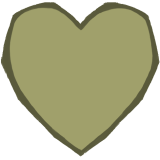
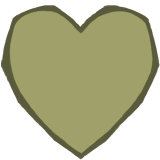
about section

Changed region(s): [[0.0, 0.0, 1.0, 1.0]]

diff --git a/src/Interface/AboutModal.jsx b/src/Interface/AboutModal.jsx
@@ -1,0 +1,111 @@
+import React from 'react';
+import styled from 'styled-components';
+import XIcon from '../svgs/X.jsx';
+import Collin from '../../public/Interface/collin.jpg';
+import Hypatia from '../../public/Interface/hypatia.jpg';
+import GitHub from '../../public/Interface/github.png';
+import LinkedIn from '../../public/Interface/linkedin.png';
+import Tumblr from '../../public/Interface/tumblr.png';
+
+const AboutModalContainer = styled.div`
+    position: absolute;    
+    background-color: #00000080;
+    color: #ffffff;
+    border-radius: 20px;
+    width: 960px;
+    min-width: 0;
+    max-width: 960px;
+    height: 680px;    
+    z-index: 2000;
+`;
+
+
+const AboutModalWrapper = styled.div`
+    position: relative;
+    padding: 20px;
+    svg{
+        position: absolute;
+        right: 20px;
+    }
+    h2{
+        text-align: center;
+    }
+`;
+
+const About = styled.div`
+    margin-bottom: 16px;
+`;
+
+const Profile = styled.div`   
+    margin-bottom: 12px;
+    img{
+        width: 160px;
+        height: 160px;        
+    }
+`;
+
+const Description = styled.div`
+    display: flex;    
+    margin-top: 16px;
+    img{
+        margin-right: 16px;
+    }
+`;
+
+const Socials = styled.div`
+    display: flex;
+    img{
+        width: 32px;
+        height: 32px;
+        margin-top: 4px;
+        margin-right: 4px;
+    }
+
+`;
+
+const AboutModal = (props) => {
+    const { setShowAbout } = props;
+    return <AboutModalContainer>        
+        <AboutModalWrapper>
+            <XIcon onClick = {() => { setShowAbout(false) }}/>
+            <h2>Majora's Menu</h2>
+            <About> The Majora's Menu project is an ongoing artistic endeavor by software engineer Collin Cain to recreate menus
+                from his favorite childhood video games, but with a modern UI design and custom features. While developing
+                this project Collin was able to connect with Hypatia, an artist with a deep love for Nintendo games like himself,
+                and with her help the project was brought to life. There is no purpose for this application currently. It exists
+                purely as an artistic expression. Maybe as more features are developed it will gain a purpose, but for now, please enjoy!
+            </About>
+            <Profile>
+                <h4>Collin - Developer</h4>
+                <Description>
+                    <img src={Collin}></img>
+                    <p> Collin is a software engineer who's been working in tech for over 10 years. In that time
+                    he's mainly focused on web development originally specializing in backend data integrations
+                    before switching focus to designing frontend user interfaces. Nowadays, he continues wearing many hats
+                    and is always learning new technologies (usually with a video game related passion project!).
+                    </p>
+                </Description>
+                <Socials>
+                    <a href='https://github.com/indiecollin' target="_blank" rel="noopener noreferrer"><img src={GitHub}></img></a>
+                    <a href='https://www.linkedin.com/in/collin-cain-5349a98a' target="_blank" rel="noopener noreferrer"><img src={LinkedIn}></img></a>
+                </Socials>
+            </Profile>
+            <Profile>
+                <h4>Hypatia - Artist</h4>
+                <Description>
+                    <img src={Hypatia}></img>
+                    <p> Hypatia I don't really know enough about you unfortunately, but I would like to change that. In the meantime I'll
+                        write some stuff here so you can see what this might look like. I hope you're willing to give me some kind of excerpt
+                        about yourself so I can post it up here on the website. Your art invigorated this project so much I think it's fair
+                        to consider you the co-creator of whatever we want to call this :).
+                    </p>
+                </Description>
+                <Socials>
+                    <a href='https://onthegreatsea.tumblr.com' target="_blank" rel="noopener noreferrer"><img src={Tumblr}></img></a>
+                </Socials>
+            </Profile>
+        </AboutModalWrapper>
+    </AboutModalContainer>
+}
+
+export default AboutModal;

diff --git a/src/Interface/ActionButtons.jsx b/src/Interface/ActionButtons.jsx
@@ -9,26 +9,30 @@ const ActionButtonsContainer = styled.div`
     left: 50%;
     transform: translateX(-50%);
     width: 300px;    
+`;
 
-    button{     
-        display: flex;
-        align-items: center;
-        justify-content: center;   
-        position: absolute;
-        border: none;         
-        cursor: pointer;
-        color: white;
-        -webkit-text-stroke: 1.2px black;
-        background-color: transparent;
-        font-size: 26px;
-        &:before{
-            border-radius: 50%;
-            clip-path: polygon(50% 0%, 80.9% 9.5%, 97.6% 34.5%, 97.6% 65.5%, 80.9%
-            90.5%, 50% 100%, 19.1% 90.5%, 2.4% 65.5%, 2.4% 34.5%, 19.1% 9.5%, 50% 0%);
-        }
+const ActionButtonsWrapper = styled.div`
+    position: relative;
+`;
+
+const ActionButton = styled.button`
+    display: flex;
+    align-items: center;
+    justify-content: center;   
+    position: absolute;
+    border: none;         
+    cursor: ${props => props.disabled ? 'unset' : 'pointer'};
+    color: white;
+    -webkit-text-stroke: 1.2px black;
+    background-color: transparent;
+    font-size: 26px;
+    &:before{
+        border-radius: 50%;
+        clip-path: polygon(50% 0%, 80.9% 9.5%, 97.6% 34.5%, 97.6% 65.5%, 80.9%
+        90.5%, 50% 100%, 19.1% 90.5%, 2.4% 65.5%, 2.4% 34.5%, 19.1% 9.5%, 50% 0%);
     }
 
-    .start{        
+    &.start{        
         width: 52px;
         height: 52px;        
         &:before {
@@ -45,7 +49,7 @@ const ActionButtonsContainer = styled.div`
         }
     }
 
-    .B{
+    &.B{
         width: 64px;
         height: 64px;
         left: 80px;
@@ -64,7 +68,7 @@ const ActionButtonsContainer = styled.div`
         }
     }
 
-    .A{
+    &.A{
         width: 64px;
         height: 64px;        
         left: 180px;
@@ -85,18 +89,17 @@ const ActionButtonsContainer = styled.div`
     }
 `;
 
-const ActionButtonsWrapper = styled.div`
-    position: relative;
-`;
-
-const ActionButtons = () => {
+const ActionButtons = (props) => {
+    const { setShowAbout } = props;
     return (<ActionButtonsContainer>
         <ActionButtonsWrapper>
-            <button className='start comic-relief' onClick={()=>{}}>Return</button>
-            <button className='B comic-relief' onClick={()=>{}}>Save</button>
-            <button className='A comic-relief' onClick={()=>{}}>Decide</button>
+            <ActionButton className='start comic-relief' onClick={()=>{setShowAbout(true)}} >About</ActionButton>
+            <a href='https://github.com/indiecollin/Majoras' target="_blank" rel="noopener noreferrer">
+                <ActionButton className='B comic-relief'>Code</ActionButton>
+            </a>
+            <ActionButton className='A comic-relief' disabled>More</ActionButton>
         </ActionButtonsWrapper>
     </ActionButtonsContainer>)
-};
+};  
 
 export default ActionButtons;

diff --git a/src/MajorasMenu.jsx b/src/MajorasMenu.jsx
@@ -8,6 +8,7 @@ import Map from './Map/Map.jsx';
 import Health from './Interface/Health.jsx';
 import Magic from './Interface/Magic.jsx';
 import ActionButtons from './Interface/ActionButtons.jsx';
+import AboutModal from './Interface/AboutModal.jsx';
 import ControlsTooltip from './Interface/ControlsTooltip.jsx';
 import InfoBar from './Interface/InfoBar.jsx';
 import DescriptionModal from './Interface/DescriptionModal.jsx';
@@ -351,6 +352,7 @@ const MajorasMenu  = () => {
     const [hearts, setHearts] = useState(3); // the max capacity of hearts
     const [health, setHealth] = useState(6); // current value, counted in fourths to work better with quarter hearts
     const [magic, setMagic] = useState(100);
+    const [showAbout, setShowAbout] = useState(false);
     const [defense, setDefense] = useState(false);
     const [instructions, setInstructions] = useState();
     const [description, setDescription] = useState();
@@ -617,7 +619,7 @@ const MajorasMenu  = () => {
             <Health health={health} hearts={hearts} defense={defense}/>
             <Magic magic={magic}/>
         </HealthAndMagic>
-        <ActionButtons/>        
+        <ActionButtons setShowAbout={setShowAbout}/>        
         <EquipButtonsWrapper>
             <EquipButtonLeft ref={cLeftRef}><EquippedItem src={cLeft.image}/><Triangle/></EquipButtonLeft>
             <EquipButtonDown ref={cDownRef}><EquippedItem src={cDown.image}/><Triangle/></EquipButtonDown>
@@ -660,6 +662,7 @@ const MajorasMenu  = () => {
         </>}
         <EquipmentClone src={equipmentClone.image} clonedInfo={equipmentClone} scrollX={scrollX} scrollY={scrollY}/>
         {description && <DescriptionModalWithRef description={description} ref={descriptionRef}/>}
+        {showAbout && <AboutModal setShowAbout={setShowAbout}/>}
     </MenuBox>
     </MenuContext.Provider>
 }

diff --git a/src/svgs/X.jsx b/src/svgs/X.jsx
@@ -1,0 +1,20 @@
+import React from 'react';
+import styled from 'styled-components';
+
+const SVG = styled.svg`
+    width: ${props => props.dims ? props.dims + 'px' : "16px"};
+    height: ${props => props.dims ? props.dims + 'px' : "16px"};
+    fill: ${props => props.fill || "#888"};
+    cursor: ${props => props.disabled ? 'unset' : 'pointer' };
+`;
+
+const XIcon = (props) => {
+    return (            
+        <SVG xmlns="http://www.w3.org/2000/svg" viewBox="0 0 16 16" dims = {props.dims} onClick={props.onClick}>
+            <path d="M14.74,16a1.26,1.26,0,0,1-.9-.37L.37,2.16A1.27,1.27,0,0,1,2.16.37L15.63,13.84a1.27,1.27,0,0,1,0,1.79A1.25,1.25,0,0,1,14.74,16Z" transform="translate(0)"/>
+            <path d="M1.26,16a1.25,1.25,0,0,1-.89-.37,1.27,1.27,0,0,1,0-1.79L13.84.37a1.27,1.27,0,0,1,1.79,1.79L2.16,15.63A1.26,1.26,0,0,1,1.26,16Z" transform="translate(0)"/>
+        </SVG>
+    );
+};
+
+export default XIcon;

diff --git a/src/svgs/Base.jsx b/src/svgs/Base.jsx
@@ -1,4 +1,4 @@
-import React, { Component } from 'react';
+import React from 'react';
 import styled from 'styled-components';
 import { frame, darkFrame } from '../styles/colors';
 
@@ -27,5 +27,3 @@ const BaseIcon = (props) => {
 };
 
 export default BaseIcon;
-
-//style="fill:none;stroke:#000000;stroke-width:0.52916664;stroke-linecap:butt;stroke-linejoin:miter;stroke-opacity:1;fill-opacity:1;stroke-dasharray:none"

diff --git a/src/QuestStatus/BombersNotebook.jsx b/src/QuestStatus/BombersNotebook.jsx
@@ -192,7 +192,7 @@ const Medal = styled.div`
     z-index: 1200;
     img{
         margin-left: 16px;
-        height: 30%;
+        height: 50%;
     }
 `;
 
